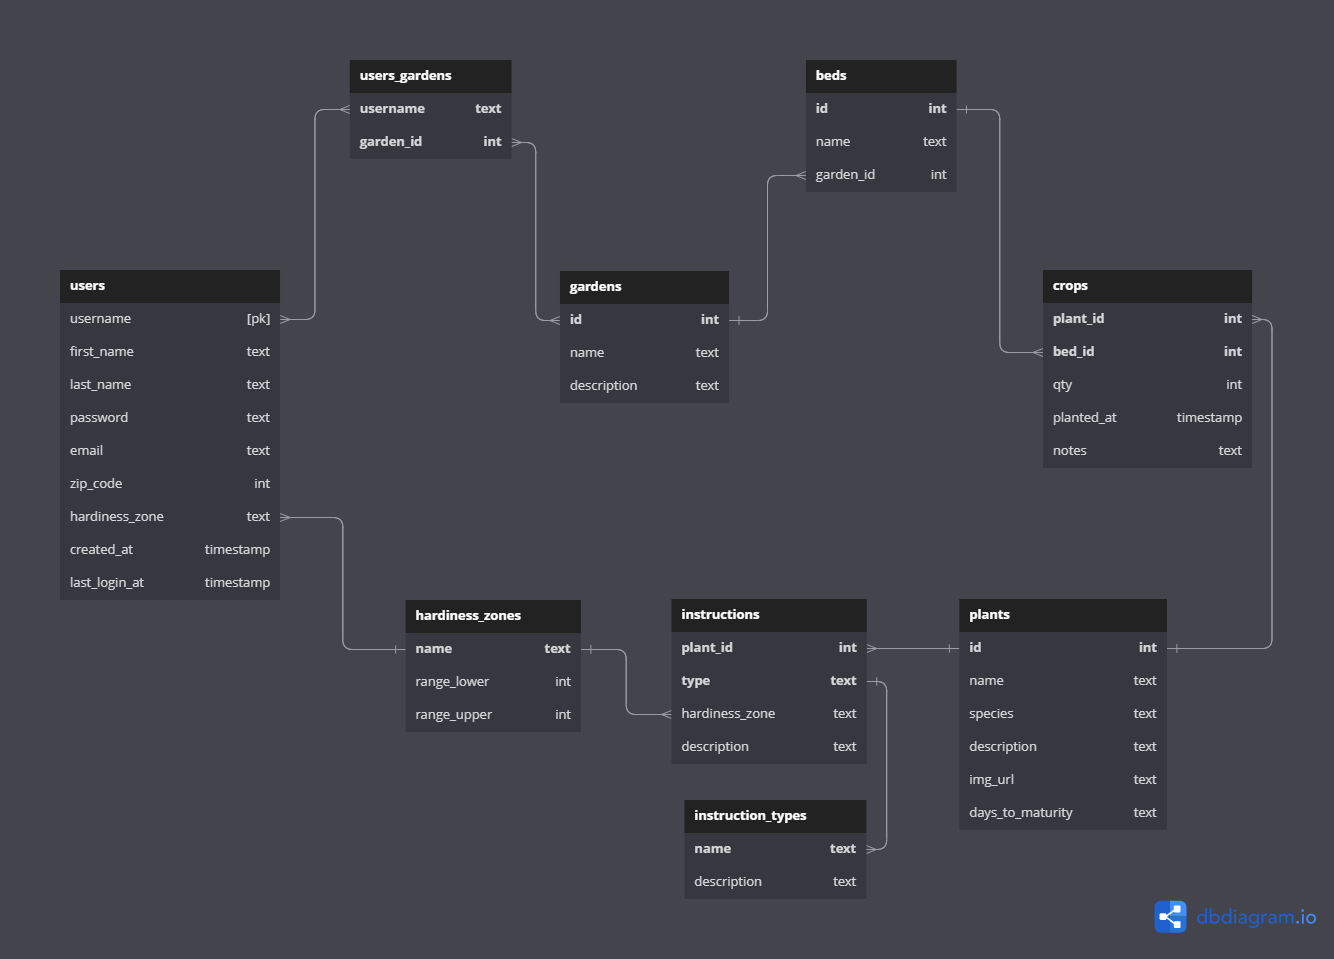
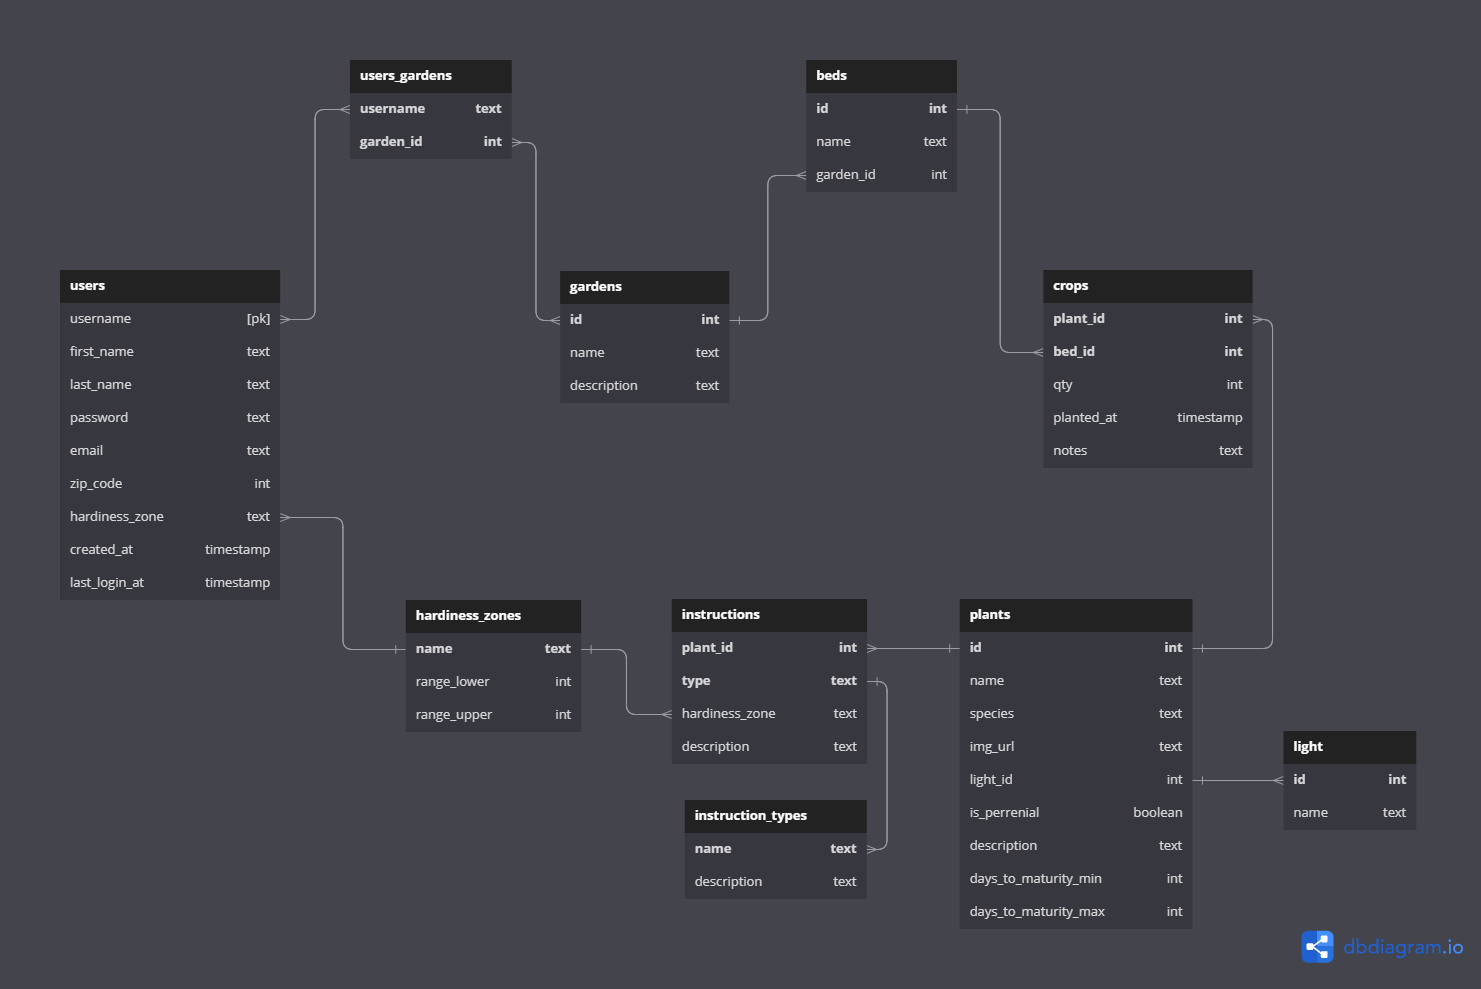
update db schema reorder APIs

diff --git a/Proposal/README.md b/Proposal/README.md
@@ -45,16 +45,19 @@ Sample API response data for a plant:
 ```json
 {
   "plant": {
-    "id": "23",
-    "name": "Habanero",
-    "species": "Capsicum chinense",
-    "description": "The habanero is a hot variety of chili. Unripe habaneros are green, and they color as they mature.The most common color variants are orange and red, but the fruit may also be white, brown, yellow, green, or purple. Typically, a ripe habanero is 2–6 centimeters (3⁄4–2+1⁄4 inches) long. Habanero chilis are very hot, rated 100,000–350,000 on the Scoville scale. The habanero's heat, flavor and floral aroma make it a popular ingredient in hot sauces and other spicy foods.",
-    "days_to_maturity": "90",
+    "id": "1",
+    "name": "Jalapeno",
+    "species": "Capsicum annuum",
+    "img_url": "https://gardengood.com/api/img/jalapeno.jpg",
+    "light_id": "0",
+    "is_perrenial": "false",
+    "description": "Named for the town of Jalapa, Mexico, this is the most popular chile pepper in the United States. Jalapeño produces 3-inch, thick-walled, moderately hot pods with deep green color that matures to a bright red. The skin may show a netting pattern as fruit ages, but it does not affect flavor. Often, the heat of the peppers will vary, even those from the same plant. If peppers grow fast, get plenty of water, and are harvested soon, they may be milder than peppers that stay on the plant a long time, or that develop slowly and under stressful conditions. Widely adapted, jalapeño plants yield a bountiful harvest in dry or humid, hot or cool climates. The compact plants grow well in containers. Use jalapeño on nachos or in salsa, or smoke the mature red ones over mesquite chips to make your own chipotle sauce. Jalapeño became the first pepper in space when a bag full of pods accompanied astronauts on the shuttle Columbia in November 1982!",
+    "days_to_maturity_min": "75",
+    "days_to_maturity_max": "80",
     "instructions": {
-      "planting": {},
-      "pruning": {},
-      "watering": {},
-      "pest_control": {}
+      "planting": "Start seeds indoors 6-8 weeks before outdoor planting time for earliest harvest. Grow in sunny window. Transplant outdoors to a sunny location when seedlings have 5-6 leaves. In mild climates, may be sown directly in the garden.",
+      "pruning": "Top young plants to encourage sturdier bush growth. Throughout the summer, you can optionally remove some suckers to prevent too much horizontal growth. Late in the season, prune plants heavily by cutting all shoots and side branches back by about six inches, or to a point just above the topmost fruit. Remove branches that do not hold any fruits. Finally, remove any flowers you see on the plant as well as small fruits that do not have time to ripen before the first frost.",
+      "watering": "Jalapeño plants need lots of water. You should keep the soil very moist at all times. Note that dry soil can give the fruits a bitter flavor; however, you should also avoid over-saturating the soil as this could cause fungal diseases and root rot."
     }
   }
 }
@@ -65,30 +68,13 @@ Sample API response data for a crop:
 ```json
 {
   "crop": {
-    "plant_id": "23",
-    "name": "Habanero", //query res of `SELECT name FROM plants WHERE id = $1, [plant_id]`
-    "img_url": "https://gardengood.com/api/img/habanero.jpg", //query res of `SELECT img_url FROM plants WHERE id = $1, [plant_id]`
+    "plant_id": "1",
+    "name": "Jalapeno", //query res of `SELECT name FROM plants WHERE id = $1, [plant_id]`
+    "img_url": "https://gardengood.com/api/img/jalapeno.jpg", //query res of `SELECT img_url FROM plants WHERE id = $1, [plant_id]`
     "bed_id": "7",
     "qty": "2",
-    "planted_at": "2023-02-01 06:10:25",
-    "notes": "Grew extremely well this year due to being placed in the middle of the garden. 40% more yeild than last year!"
+    "planted_at": "2023-02-01 06:10:25"
   }
-}
-```
-
-### **Plant Hardiness Zone API**
-
-https://rapidapi.com/fireside-worldwide-fireside-worldwide-default/api/plant-hardiness-zone
-
-This app will use the **Plant Hardiness Zone API** in order to determine the hardiness zone in which the user resides. The app will then use this information to provide the user with the correct planting and care instructions for their hardiness zone.
-
-Sample API response data:
-
-```json
-// GET request made with zipcode:"90210"
-{
-"hardiness_zone":"10b"
-"zipcode":"90210"
 }
 ```
 
@@ -96,7 +82,7 @@ Sample API response data:
 
 https://www.weatherapi.com/
 
-This app will make use of the **WeatherAPI** in order to help the user properly care for their plants during various weather conditions such as extreme heat, freezes, and precipitation.
+This app will make use of the **WeatherAPI** in order to help the user properly care for their plants during various weather conditions such as extreme heat, freezes, and precipitation. This API can also be used to display current weather conditions in a user's home page or nav bar.
 
 Sample API response data for a daily forcast:
 
@@ -139,11 +125,27 @@ Sample API response data for a daily forcast:
 }
 ```
 
+### **Plant Hardiness Zone API**
+
+https://rapidapi.com/fireside-worldwide-fireside-worldwide-default/api/plant-hardiness-zone
+
+This app will use the **Plant Hardiness Zone API** in order to determine the hardiness zone in which the user resides. Stretch goal: The app will then use this information to provide the user with the correct planting and care instructions for their hardiness zone.
+
+Sample API response data:
+
+```json
+// GET request made with zipcode:"90210"
+{
+"hardiness_zone":"10b"
+"zipcode":"90210"
+}
+```
+
 ---
 
 ## Project Approach
 
-My approach for creating the Garden Good App will be to develop an MVP that allows the User to look up information about a Plant. For this there should be a 'plants' page that shows all plants. The user should be able to click on plant to reveal information about it. The user should also be able to search for a plant by name. Once this feature is implemented, I will add a feature allowing Users digitally build out their gardens. They will be able to create Garden components, add Bed components to those Gardens, and add Crop componens to those Beds.
+My approach for creating the Garden Good App will be to develop an MVP that allows the User to look up information about a Plant. For this there should be a 'plants' page that shows all plants. The user should be able to click on plant to reveal information about it. The user should also be able to search for a plant by name. Once this feature is implemented, I will add current weather data to the interface. I will also add a feature that allows Users to digitally build out their gardens. They will be able to create Garden components, add Bed components to those Gardens, and add Crop componens to those Beds.
 
 ### **Database Schema**
 
@@ -162,10 +164,10 @@ Database models will consist of the following:
 
 ### **Potential Issues**
 
-1. In the event that the Plant Hardiness Zone API goes down, a new user should be able to manually choose a hardiness zone.
+1. If the WeatherAPI is down, the user will not receive weather-related care alerts until the API is running again.
+2. In the event that the Plant Hardiness Zone API goes down, a new user should be able to manually choose a hardiness zone.
    When a hardiness zone is set manually, there should be a state such as "hasManualHardinessZone" that will trigger the Hardiness Zone API to reset the user's hardiness zone during the next login.
    Since the registration process will require the user's zip code, the API will be able to properly set the user's hardiness zone and set "hasManualHardinessZone" to false.
-2. If the WeatherAPI is down, the user will not receive weather-related care alerts until the API is running again.
 
 ### **Security & Sensitive Information**
 
@@ -189,11 +191,13 @@ Database models will consist of the following:
 ### **User Flows**
 
 User..
-![user flow diagram]() - Coming Soon
+![user flow diagram](./img/GardenGood_user-flow.png) - Coming Soon
 
 ### **Stretch Goals**
 
-1. Add common garden pest and pest control data
-2. Add common preserving techniques for each veggie
-3. Add bed building techniques to help new gardeners get started (tips like leave room to walk and dont make the bed bigger than you can reach) maybe this can have a user add feature where people can suggest ideas and share experiences
-4. Building plans for different types of garden beds
+1. Add feature for users to add notes to their crops.
+2. Add planting dates to plants. This should use the Hardiness Zone API to select the correct option from a list of date ranges.
+3. Add common garden pest and pest control data
+4. Add common preserving techniques for each veggie
+5. Add bed building techniques to help new gardeners get started (tips like leave room to walk and dont make the bed bigger than you can reach) maybe this can have a user add feature where people can suggest ideas and share experiences
+6. Building plans for different types of garden beds
